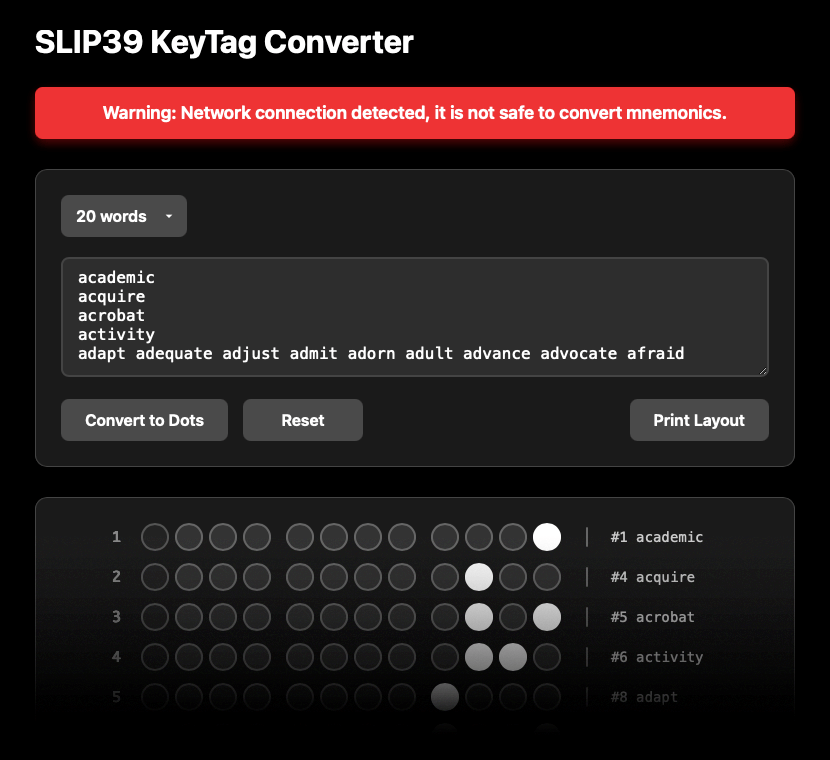
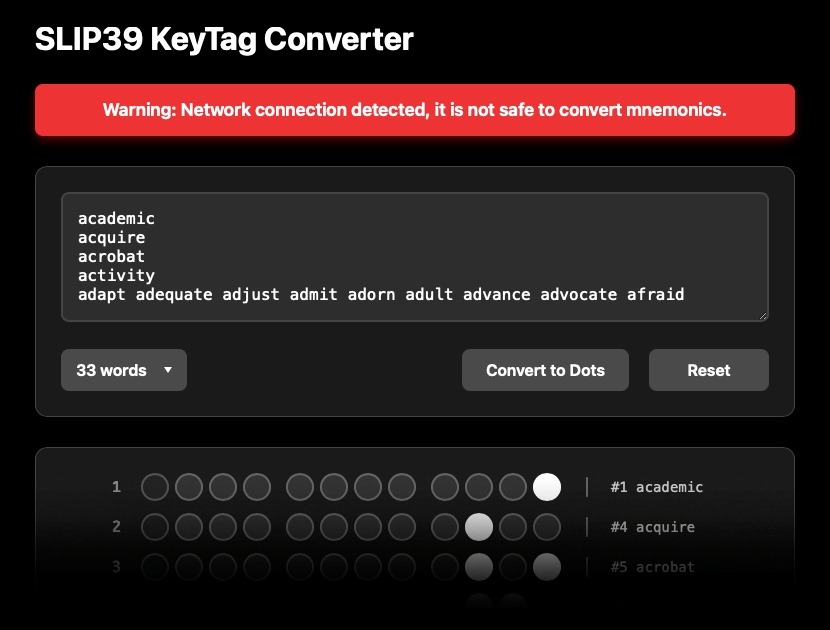
docs: converter usage

diff --git a/converter/README.md b/converter/README.md
@@ -1,12 +1,17 @@
 # SLIP39 KeyTag Converter
 
-A secure, offline-first tool for converting SLIP39 mnemonic words into dot patterns for physical KeyTag hardware implementation. This tool enables the creation of physical, air-gapped cryptocurrency wallet backups using the OneKey KeyTag system.
+A tool for learning SLIP39 mnemonic conversion to dot patterns for KeyTag hardware. This application demonstrates the conversion process and KeyTag layout for **educational purposes** only.
 
 ![SLIP39 KeyTag Converter](../docs/images/converter.png)
 
 ## Security Notice
 
-This tool is designed for offline use only when handling real cryptocurrency mnemonics. Network connectivity poses security risks for sensitive cryptographic material.
+Under any circumstances, **do not enter actual cryptocurrency seed phrases into converter**, regardless of how secure your computer is. Mnemonics entered into any electronic device create security risks, including:
+
+- Memory persistence in RAM and browser caches
+- Potential exposure through swap files or system dumps  
+- Vulnerability to malware, screen recording, or keyloggers
+- Human error in data clearing procedures
 
 ## Quick Start
 
@@ -46,50 +51,6 @@ npm --version
 
 2. **Open browser:**
    Navigate to `http://localhost:3000`
-
-3. **For secure use:**
-   - Disconnect from internet after loading the page
-   - Verify the network warning appears when online
-   - Only enter real mnemonics when offline
-
-## Security Best Practices
-
-### Third-Party Library Verification
-
-This application uses Handlebars `v4.7.8`, for template rendering. For security verification, run:
-
-```bash
-diff <(curl -s "https://cdnjs.cloudflare.com/ajax/libs/handlebars.js/4.7.8/handlebars.min.js") \
-  public/assets/handlebars.min.js
-```
-
-If there is no output, files are identical.
-
-### Security Steps
-
-1. **Load the application online first**, to cache resources
-2. **Disconnect from internet**, before entering any real mnemonics
-3. **Only proceed when offline**, the network warning will disappear when disconnected
-
-### Data Protection
-
-- **Never enter real mnemonics while online**, use passphrase protected cold wallets
-- **Use a dedicated offline computer**, for maximum security
-- **Test with sample data first**, to verify functionality
-
-### Physical Security
-
-- **Store KeyTags securely**, treat them like cash
-- **Use multiple copies**, stored in different secure locations
-- **Test recovery process** with small amounts first
-- **Protect KeyTags from physical damage** (fire, water, corrosion)
-
-## Important Warnings
-
-- **SLIP39 mnemonics control cryptocurrency funds**, exposure can result in permanent financial loss
-- **Mark dots accurately**, incorrect patterns means lost funds
-- **Test recovery process** with small amounts before trusting large funds
-- **Never share real mnemonic data**, when seeking help
 
 ## Disclaimer
 
